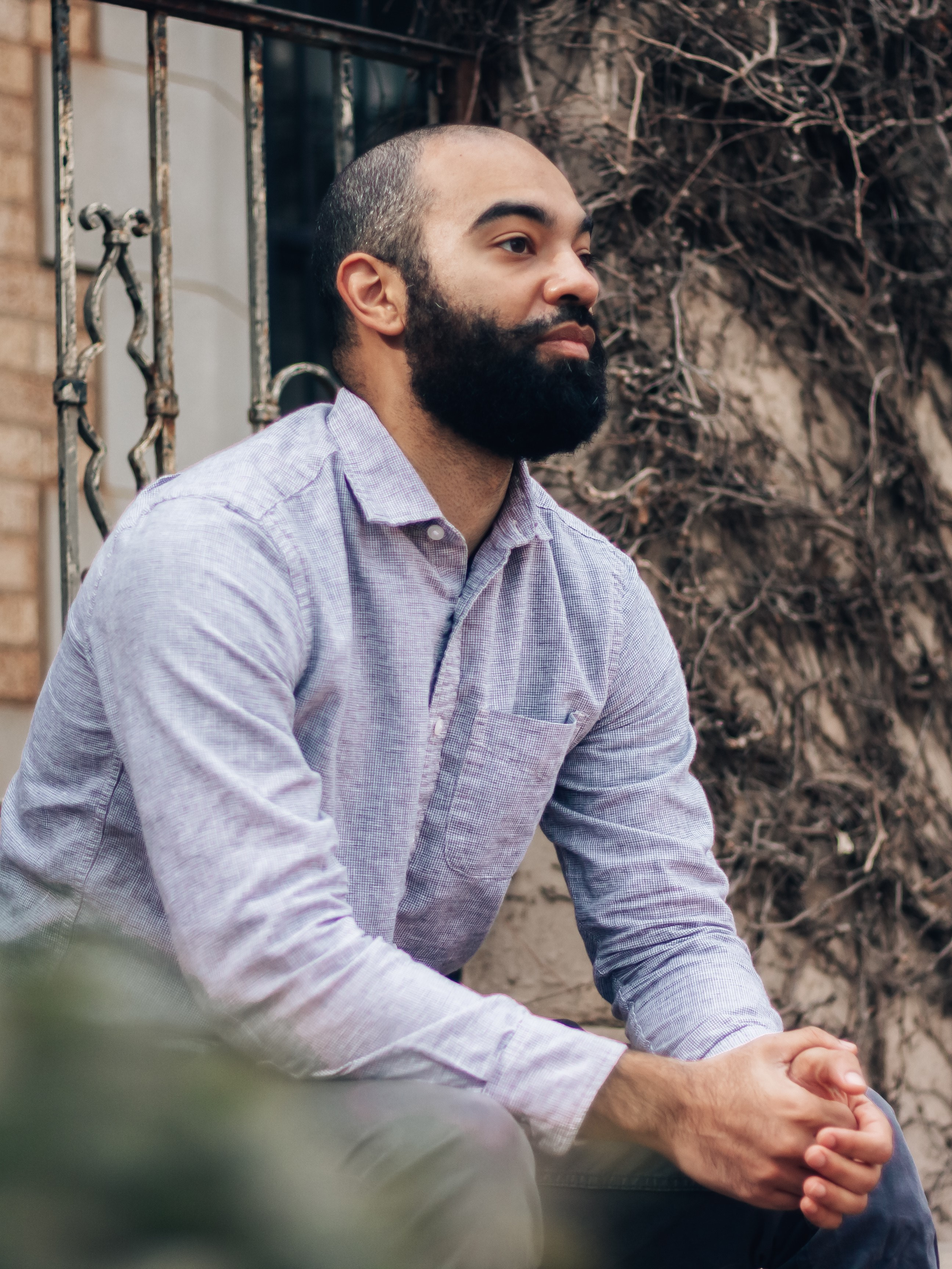
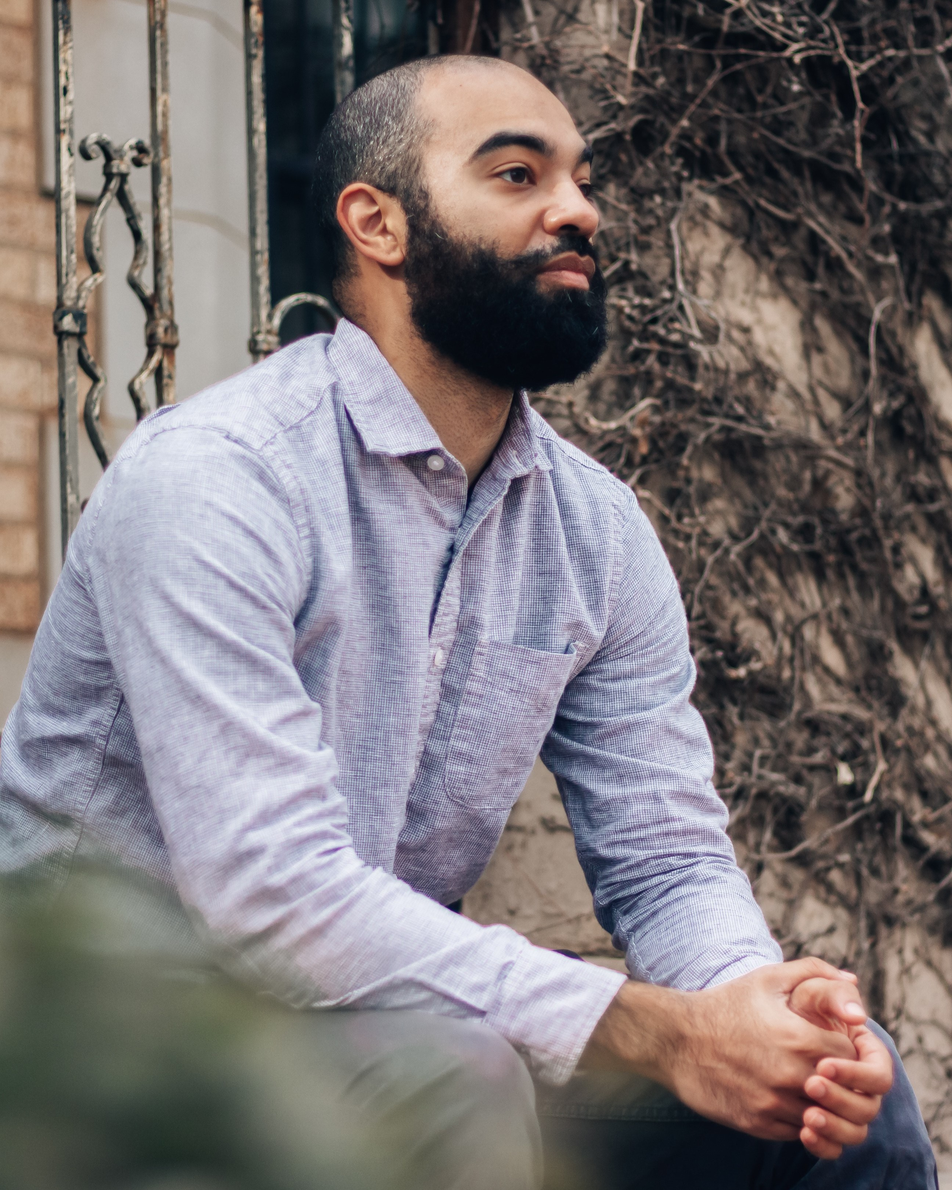
Updated images

diff --git a/src/sections/about/About.jsx b/src/sections/about/About.jsx
@@ -1,4 +1,4 @@
-import AboutImage from '../../assets/selfie3.jpeg'
+import AboutImage from '../../assets/selfie1.jpeg'
 import Resume from '../../assets/brendansresume.pdf'
 import {HiDownload} from 'react-icons/hi'
 import data from './data'
